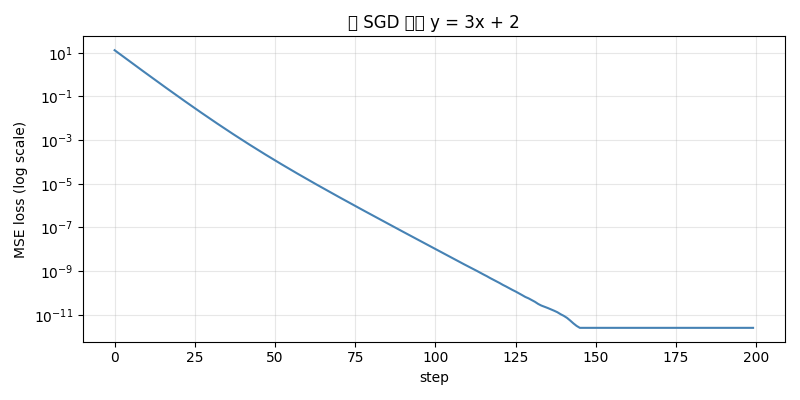
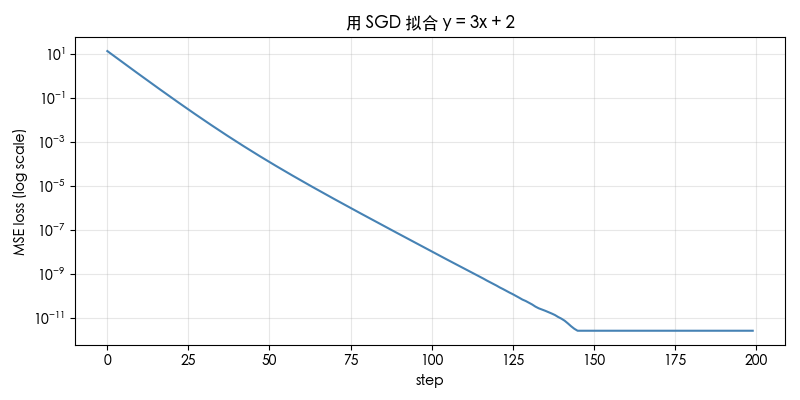
update doc

diff --git a/exercises/pytorch-llm-basic/17_rope.py b/exercises/pytorch-llm-basic/17_rope.py
@@ -218,6 +218,7 @@ if plot:
     axes[2].set_aspect("equal")
 
     plt.tight_layout()
+    # plt.savefig('./plots/17_rope.png')
     plt.show()
 
 

diff --git a/math-concepts/方差公式来源.md b/math-concepts/方差公式来源.md
@@ -1,0 +1,192 @@
+# 方差/标准差公式的来源
+
+## 题外话:为什么标准差是这个公式?有什么历史原因或者数学优势?
+
+标准差这个公式 `σ = √(mean((x-μ)²))` 看起来奇怪 —— 为什么要先减均值、再平方、再开方?
+
+其实背后有 **3 个数学优势 + 2 段历史**。
+
+---
+
+## 公式的由来:逐步分解动机
+
+### 第 1 步:`x - μ`(减均值)
+
+为了衡量"偏离中心多远"。**任何度量"分散程度"的指标都要做这一步。**
+
+但这里马上有个问题:`Σ(x - μ) = 0`(正负偏离会抵消)。
+
+举例:`x = [8, 10, 12]`, μ = 10。
+偏离 = `[-2, 0, +2]`, 直接求和 = 0, 看不出散度。
+
+**所以必须把负号消掉。**
+
+---
+
+### 第 2 步:为什么是 `²` 而不是 `|·|`?
+
+这是历史和数学的核心。有 **两个备选方案**:
+
+| 方案 | 公式 | 叫什么 |
+|------|------|------|
+| A | `mean(|x - μ|)` | **MAD (平均绝对偏差)** |
+| B | `mean((x - μ)²)` | **方差** |
+
+两个都能消掉负号, 但最终大家选了 **B(平方)**。原因有 4 个:
+
+---
+
+### 优势 1:**可微分(数学最关键的理由)**
+
+```
+|x|  在 x=0 处不可导(有个尖角)
+x²   处处光滑可导
+```
+
+→ 平方版本可以**直接做微积分、求导、做优化**(梯度下降的灵魂)。
+→ ML 里的损失函数(MSE)直接用平方, 就是这个原因。
+→ 绝对值版的损失也能用, 但要靠 subgradient 等技巧, 数学繁琐。
+
+---
+
+### 优势 2:**可加性(Variance is additive)**
+
+这是统计学里**最重要**的优势:
+
+```
+独立随机变量:    Var(X + Y) = Var(X) + Var(Y)   ✓
+                MAD(X + Y) ≠ MAD(X) + MAD(Y)   ✗
+```
+
+举例:抛 100 个硬币, 总和的方差 = 100 × 单次方差。
+这是**中心极限定理**等核心结论的基础。
+
+如果用 MAD, 这套数学完全崩溃, 统计学就建立不起来。
+
+---
+
+### 优势 3:**几何意义 = 欧氏距离(L2 范数)**
+
+把数据看成空间中的点:
+
+```
+向量 (x₁, x₂, x₃) 到中心 (μ, μ, μ) 的距离
+= √( (x₁-μ)² + (x₂-μ)² + (x₃-μ)² )
+= N · σ
+```
+
+→ 标准差 = **数据点到"中心"的欧氏距离(归一化版)**
+
+这意味着标准差和我们熟悉的"两点距离"是同一个东西, 所有几何/线性代数的工具都能套用(旋转、投影、SVD...)。
+
+---
+
+### 优势 4:**正态分布的天然参数**
+
+如果数据服从正态分布 `N(μ, σ²)`, 那么:
+
+- `(μ, σ²)` 完全确定了这个分布
+- 用 MLE(最大似然)反向估计参数时, **自动会得到方差公式**
+
+→ "平方"不是人为选的, 是**正态分布数学结构里浮现出来的**。
+
+---
+
+### 第 3 步:为什么最后要开方?
+
+为了**单位匹配**!
+
+```
+x 的单位是"米"
+方差 σ² 的单位是"米²"  ← 不直观, 米² 是面积...
+开方后  σ 的单位是"米"  ← 和数据同单位, 能直接比较
+```
+
+举例:身高数据
+
+- 方差 = 0.0025 m²(怪)
+- 标准差 = 0.05 m = 5 cm(立刻能理解)
+
+→ **方差适合数学推导, 标准差适合人类阅读和报告**。
+LLM 里 LayerNorm 除以的就是 std(已开方), 而不是 var。
+
+---
+
+### 第 4 步:除以 N 还是 N-1?
+
+```
+总体方差: ÷ N      (population variance)
+样本方差: ÷ N-1    (sample variance, Bessel 修正)
+```
+
+- `÷ N`:已知全体数据时用, 得到的就是"这堆数的"散度
+- `÷ N-1`:从有限样本估计未知总体的方差时用, **是无偏估计**
+- 直觉:用样本均值代替真实均值时引入了偏差, 扣 1 个自由度补偿
+
+ML 里用哪个无所谓(数据量大, 1 的差别可忽略)。PyTorch 的 `var(unbiased=False)` 就是除 N。
+
+---
+
+## 两段历史
+
+### Gauss 1809:从天文学诞生
+
+天文学家 Gauss 想从有误差的观测里推算行星轨道。他假设:
+
+> "误差出现的概率, 应该是误差大小的某个函数"
+
+他从几个公理出发推导, 发现**只有正态分布 + 平方误差**能满足所有条件。
+这就是著名的"**最小二乘法**"(Least Squares), 也是平方损失的源头。
+
+→ 平方不是任意选的, 是**从最朴素假设里自动浮现的**。
+
+### Pearson 1894:命名"Standard Deviation"
+
+19 世纪人们其实用过 MAD、"概率误差(probable error)"等好几种指标, 概念混乱。
+**Karl Pearson** 决定推一个"统一标准", 起名 **standard deviation**。
+之所以"standard", 就是为了**统一行业**, 大家都用同一个度量。
+
+---
+
+## MAD 没死, 某些场景更好
+
+| 场景 | 推荐 |
+|------|------|
+| 数据近似正态、要做推断、要做优化 | **std**(标准) |
+| 数据有大离群点、要鲁棒性 | **MAD** |
+| 金融"风险"(惩罚大波动) | **std**(方差本身就是风险定义) |
+| 房价中位数附近的散布 | MAD(尤其是 **Median Absolute Deviation**) |
+
+→ MAD 也活得好好的, 只是不如 std 通用。
+
+---
+
+## 一段类比
+
+> **MAD 像"普通人均距离":每个人离中心多远, 加起来除以人数。直觉好懂。**
+>
+> **std 像"物理学家的距离":每个人离中心的距离先平方, 平均后再开方。**
+> **它在数学上像势能(W = ½kx²)、动能(KE = ½mv²)、电功率(P = V²/R)那样自然。**
+>
+> 物理世界里很多"能量"和"代价"都是平方的, 所以选用平方衡量"分散"在数学上、几何上、统计上同时是最优雅的。
+
+---
+
+## 一句话总结
+
+> **标准差用"平方-平均-开方"是历史选择 + 数学必然**:
+>
+> - **历史**:Gauss 从天文误差推导正态分布时, 平方天然浮现
+> - **数学**:可导(微积分友好)、可加(独立变量方差相加)、欧氏距离(几何友好)、正态分布的天然参数
+> - **实用**:开方让单位回到和原数据一致, 方便理解
+>
+> MAD 简单但失去这些性质, 所以输给了 std。
+
+
+
+* Extra note
+
+```
+"平方"不是人为选的, 是正态分布数学结构里浮现出来的。
+平方不是任意选的, 是从最朴素假设里自动浮现的。
+```

diff --git a/exercises/pytorch-llm-basic/15-notes.md b/exercises/pytorch-llm-basic/15-notes.md
@@ -1,0 +1,124 @@
+# 15 笔记
+
+## RMSNorm 里的 RMS 指什么?
+
+### RMS = **Root Mean Square**(均方根)
+
+这是一个**经典的数学/物理概念**(电气工程里常用,比如交流电"有效电压"就是 RMS 电压),不是 ML 专有的。
+
+---
+
+### 字面拆解:Root - Mean - Square
+
+读名字时是 R → M → S, 但**计算时反着来**:
+
+```
+RMS(x) = √( mean( x² ) )
+         ↑       ↑    ↑
+       Root   Mean Square
+       (开方)(平均)(平方)
+```
+
+→ 先**平方**, 再**取平均**, 最后**开方**。
+
+代码里就是这一行:
+
+```python
+rms = x.pow(2).mean(dim=-1, keepdim=True).add(self.eps).sqrt()
+#     └──────┘└────────────────────────┘                  └──┘
+#      Square          Mean                                Root
+```
+
+---
+
+### 一个数值例子
+
+```python
+x = [3, 4]
+
+x²        = [9, 16]
+mean(x²)  = 12.5
+sqrt(...) = 3.535...   ← 这就是 RMS
+```
+
+注意:
+
+- 算术平均 = (3+4)/2 = 3.5
+- RMS = 3.535
+
+**RMS 几乎等于"绝对值的某种平均", 但对大值的惩罚更重**(因为先平方了)。
+
+---
+
+### 关键对比:RMS vs 标准差(std)
+
+这两个长得像但有本质区别:
+
+| | 公式 | 直觉 |
+|---|------|------|
+| **RMS** | `√( mean(x²) )` | 数值的"整体大小" |
+| **std** | `√( mean((x - μ)²) )` | 数值与**平均值**的偏差 |
+
+**唯一区别**:std 要先减均值, RMS 不减。
+
+举例:`x = [10, 11, 12]`
+
+- mean = 11
+- std ≈ 0.82(数值之间的波动很小)
+- RMS ≈ 11.0(数值整体很大)
+
+→ std 关心"离散程度", RMS 关心"绝对大小"。
+
+---
+
+### 所以 LayerNorm vs RMSNorm
+
+```
+LayerNorm:  y = (x - μ) / σ            ← 减均值, 再除以标准差
+                ↑──┘    ↑
+              中心化   缩放
+
+RMSNorm:    y = x / RMS(x)             ← 不中心化, 只缩放
+                  └──┬──┘
+                    缩放
+```
+
+#### LLaMA / Mistral / Qwen 为什么选 RMSNorm?
+
+| 维度 | LayerNorm | RMSNorm |
+|------|-----------|---------|
+| 计算量 | 2 次遍历(算 μ, 再算 σ) | 1 次遍历(直接算 RMS) |
+| 参数量 | γ 和 β 都要 | 只要 γ, **省一半** |
+| 数学操作 | 减、平方、平均、开方、除 | 平方、平均、开方、除 |
+| 实测效果 | 标准 | **几乎一样好** |
+
+→ **少做一步"减均值", 但效果不掉, 所以现代 LLM 都改用 RMSNorm**。
+作者(Zhang & Sennrich, 2019)在论文里发现:LayerNorm 真正起作用的是"缩放"那一步, "减均值"几乎可以省掉。
+
+---
+
+### 在脚本里验证一下
+
+可以加几行测试代码:
+
+```python
+x = torch.tensor([3.0, 4.0])
+# RMS 计算
+rms_val = (x.pow(2).mean()).sqrt()
+print(f"RMS = {rms_val.item():.4f}")   # 3.5355
+
+# std 对比 (会减均值)
+std_val = x.std(unbiased=False)
+print(f"std = {std_val.item():.4f}")   # 0.5
+
+# 看出区别: RMS 受"绝对大小"影响, std 只看波动
+```
+
+---
+
+### 一句话总结
+
+> **RMS = Root Mean Square(均方根) = √( mean( x² ) )**。
+> 计算时是"平方 → 平均 → 开方", 读名字时反着读 R-M-S。
+> 它和标准差很像, 但**不减均值**, 只衡量"数值整体的大小"。
+> LLaMA 用 RMSNorm 替代 LayerNorm, 是因为发现"减均值"那一步可以省掉, 速度更快、效果不掉。
